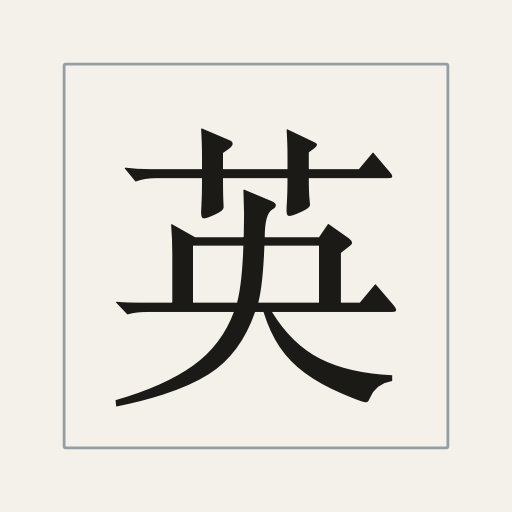
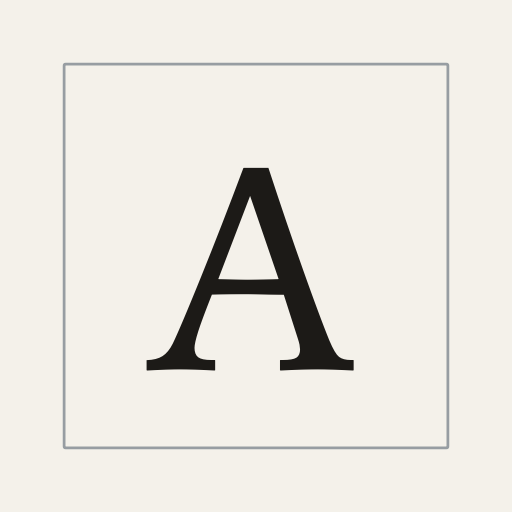
アプリアイコンとアプリ名を「A」に変更（ev-v12）

Changed region(s): [[0.2188, 0.25, 0.7812, 0.8125]]

diff --git a/index.html b/index.html
@@ -5,12 +5,12 @@
 <meta name="viewport" content="width=device-width, initial-scale=1.0, maximum-scale=1.0, user-scalable=no, viewport-fit=cover">
 <meta name="apple-mobile-web-app-capable" content="yes">
 <meta name="apple-mobile-web-app-status-bar-style" content="default">
-<meta name="apple-mobile-web-app-title" content="英">
+<meta name="apple-mobile-web-app-title" content="A">
 <meta name="theme-color" content="#F4F1EA">
 <link rel="manifest" href="manifest.json">
 <link rel="apple-touch-icon" href="icon-180.png">
 <link rel="icon" href="icon-180.png">
-<title>英</title>
+<title>A</title>
 <style>
   :root{
     --paper:#F4F1EA;
@@ -363,7 +363,7 @@
     <p class="note">※ より自然な声にするには、iPhoneの「設定 → アクセシビリティ → 読み上げコンテンツ → 声 → 英語」で高品質版をダウンロードし、ここで選択してください。</p>
     <button class="btn ghost" id="btnMakeIcs" style="margin-top:14px;">この時刻で毎日リマインドを追加</button>
     <p class="note">※ タップするとカレンダー用ファイルが作られます。開いて「追加」すると毎日この時刻に通知が来ます。<br>
-    もっと確実にしたい場合は、iPhoneの「ショートカット」→オートメーション→時刻→「Appを開く」で「英」を指定してください（自動でアプリが開きます）。</p>
+    もっと確実にしたい場合は、iPhoneの「ショートカット」→オートメーション→時刻→「Appを開く」で「A」を指定してください（自動でアプリが開きます）。</p>
     <div style="margin-top:30px;">
       <button class="btn ghost" id="btnExport">データを書き出す（バックアップ）</button>
       <button class="btn ghost" id="btnImportFile">データを読み込む（復元）</button>
